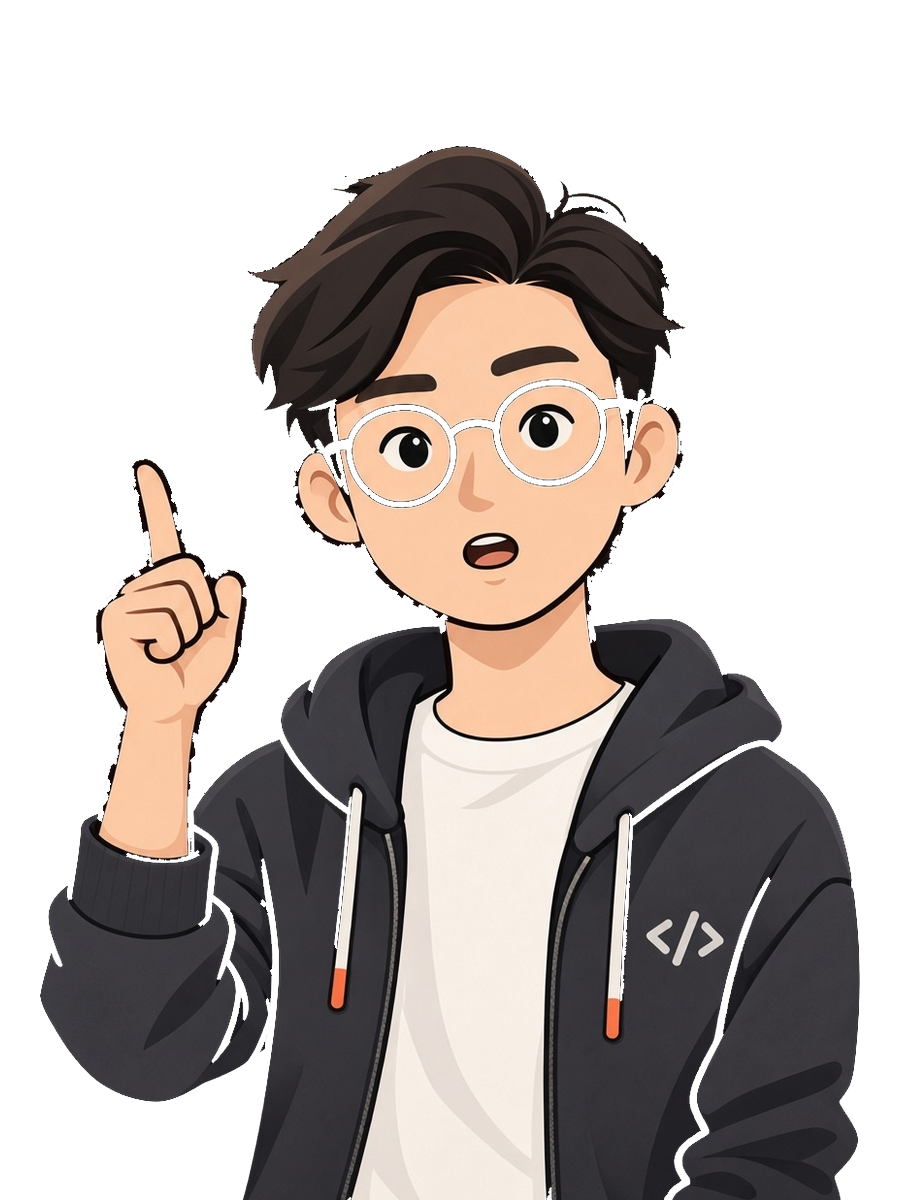
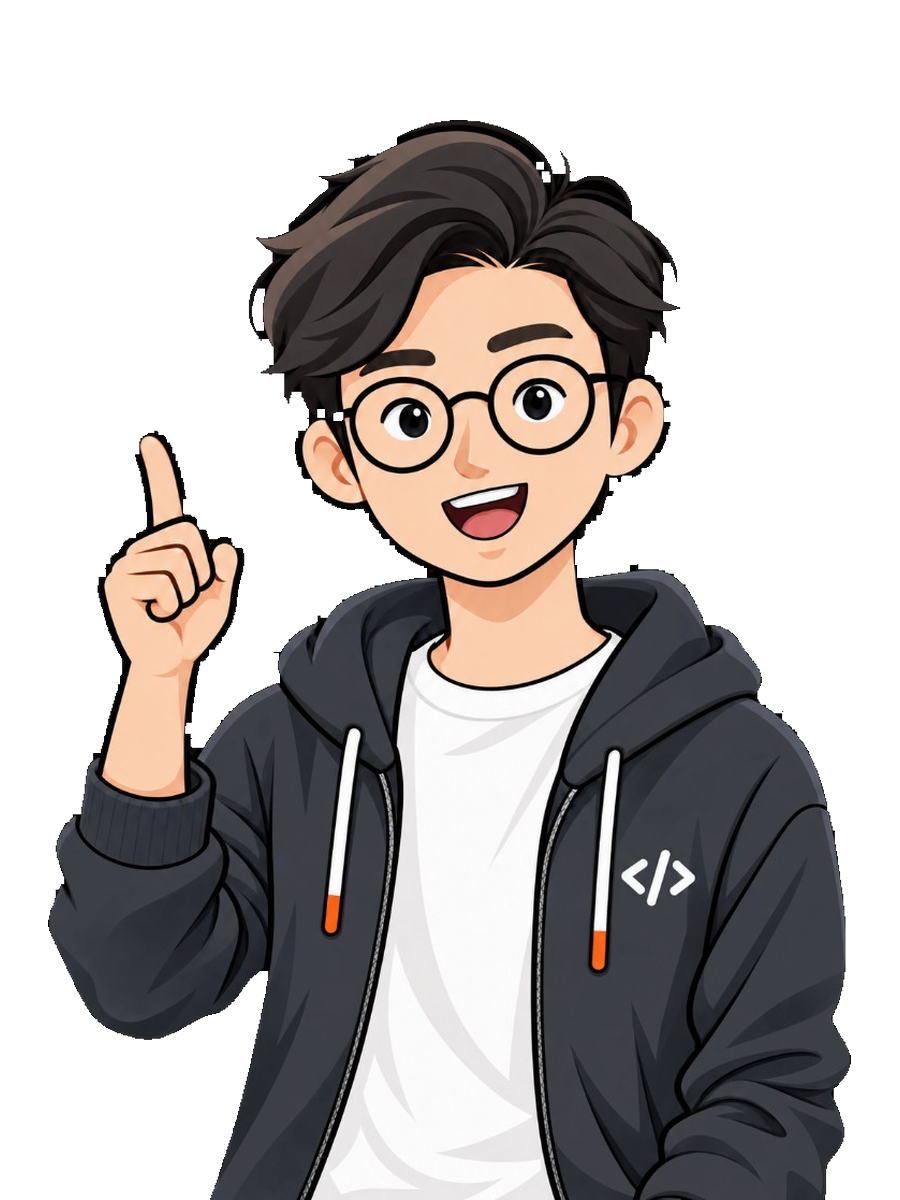
add

Changed region(s): [[0.0311, 0.0925, 0.9644, 1.0], [0.6533, 0.925, 0.6844, 0.9558]]

diff --git a/src/host-explainer/host/Host.tsx b/src/host-explainer/host/Host.tsx
@@ -1,33 +1,52 @@
 import React from "react";
-import { Img, staticFile } from "remotion";
+import { Img, interpolate, staticFile } from "remotion";
 import type { HostPose } from "../demoScript";
 
-const speakingNow = (
-  localFrame: number,
-  mouthOpen: boolean | undefined,
-) => {
-  if (mouthOpen === undefined) {
-    return localFrame >= 12 && localFrame <= 137;
-  }
-  return mouthOpen;
+export type HostSection = "intro" | "case" | "closing";
+
+const hostFile = (pose: HostPose, section: HostSection | undefined, open: boolean) => {
+  const name =
+    section === "intro"
+      ? "wave"
+      : section === "closing"
+        ? "think"
+        : pose === "cheer"
+          ? "speak"
+          : "point";
+  return open ? `host/${name}-open.png` : `host/${name}.png`;
 };
 
-const hostFile = (pose: HostPose, speaking: boolean, globalFrame: number) => {
-  const open = speaking && Math.floor(globalFrame / 6) % 2 === 1;
-  if (pose === "cheer") {
-    return open ? "host/cheer-open.png" : "host/cheer.png";
+const clamp = {
+  extrapolateLeft: "clamp" as const,
+  extrapolateRight: "clamp" as const,
+};
+
+const mouthAmount = (localFrame: number, speakFrom: number, speakTo: number) => {
+  if (localFrame < speakFrom || localFrame >= speakTo) {
+    return 0;
   }
-  return open ? "host/point-open.png" : "host/point.png";
+  const elapsed = localFrame - speakFrom;
+  const wave = (1 - Math.cos((elapsed / 14) * Math.PI)) / 2;
+  const edgeIn = interpolate(localFrame, [speakFrom, speakFrom + 8], [0, 1], clamp);
+  const edgeOut = interpolate(localFrame, [speakTo - 10, speakTo], [1, 0], clamp);
+  return wave * Math.min(edgeIn, edgeOut);
 };
 
 export const Host: React.FC<{
   pose: HostPose;
   localFrame: number;
-  globalFrame: number;
-  mouthOpen?: boolean;
-}> = ({ pose, localFrame, globalFrame, mouthOpen }) => {
-  const bob = Math.sin(globalFrame / 8) * 5;
-  const src = hostFile(pose, speakingNow(localFrame, mouthOpen), globalFrame);
+  speakFrom?: number;
+  speakTo?: number;
+  section?: HostSection;
+}> = ({ pose, localFrame, speakFrom = 12, speakTo = 137, section }) => {
+  const open = mouthAmount(localFrame, speakFrom, speakTo);
+  const frameStyle = {
+    position: "absolute" as const,
+    inset: 0,
+    width: "100%",
+    height: "100%",
+    objectFit: "contain" as const,
+  };
 
   return (
     <div
@@ -38,13 +57,13 @@ export const Host: React.FC<{
         width: 560,
         height: 747,
         zIndex: 4,
-        transform: `translateY(${bob}px)`,
         pointerEvents: "none",
       }}
     >
+      <Img src={staticFile(hostFile(pose, section, false))} style={frameStyle} />
       <Img
-        src={staticFile(src)}
-        style={{ width: "100%", height: "100%", objectFit: "contain" }}
+        src={staticFile(hostFile(pose, section, true))}
+        style={{ ...frameStyle, opacity: open }}
       />
     </div>
   );

diff --git a/src/host-explainer/HostFromBeats.tsx b/src/host-explainer/HostFromBeats.tsx
@@ -104,7 +104,6 @@ export const HostExplainer: React.FC<HostExplainerProps> = ({
     Math.round(((beat.endMs - beat.startMs) / 1000) * fps),
   );
   const localFrame = Math.max(0, frame - startFrame);
-  const mouthOpen = localFrame >= 12 && localFrame < durationFrames - 12;
   const subtitleOpacity = interpolate(
     localFrame,
     [Math.max(0, durationFrames - 12), Math.max(1, durationFrames - 1)],
@@ -184,9 +183,10 @@ export const HostExplainer: React.FC<HostExplainerProps> = ({
       />
       <Host
         pose={beat.host}
+        section={beat.section}
         localFrame={localFrame}
-        globalFrame={frame}
-        mouthOpen={mouthOpen}
+        speakFrom={12}
+        speakTo={Math.max(13, durationFrames - 12)}
       />
       <div
         style={{

diff --git a/src/host-explainer/HostExplainer.tsx b/src/host-explainer/HostExplainer.tsx
@@ -143,7 +143,7 @@ export const HostExplainerDemo: React.FC = () => {
         activeIndex={beat.checklistIndex}
         progress={beat.progressValue}
       />
-      <Host pose={beat.pose} localFrame={local} globalFrame={frame} />
+      <Host pose={beat.pose} localFrame={local} speakFrom={12} speakTo={138} />
       <div
         style={{
           position: "absolute",
